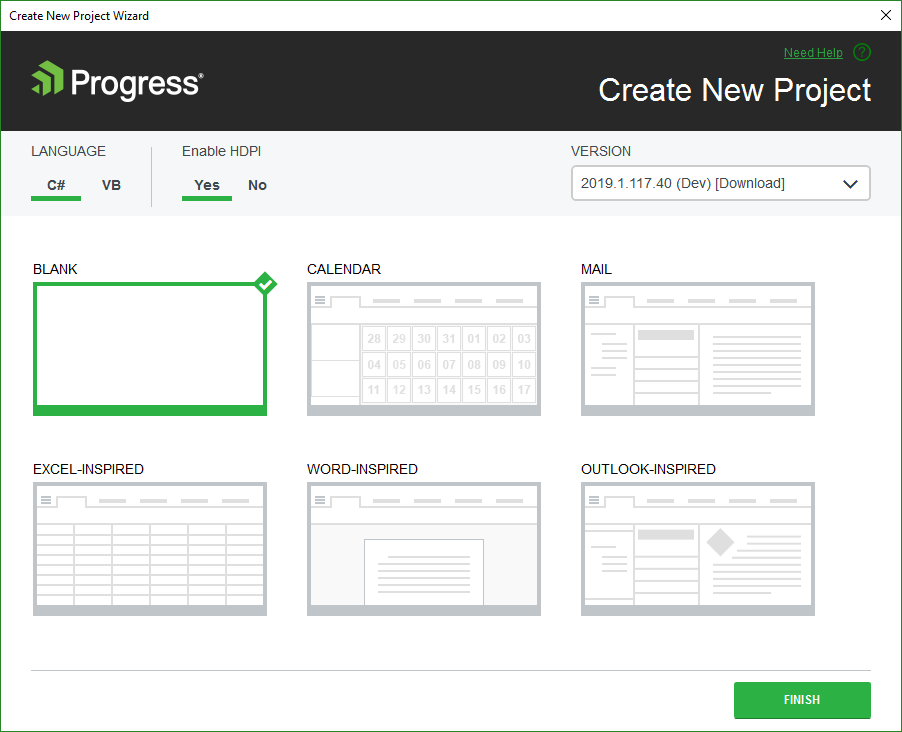
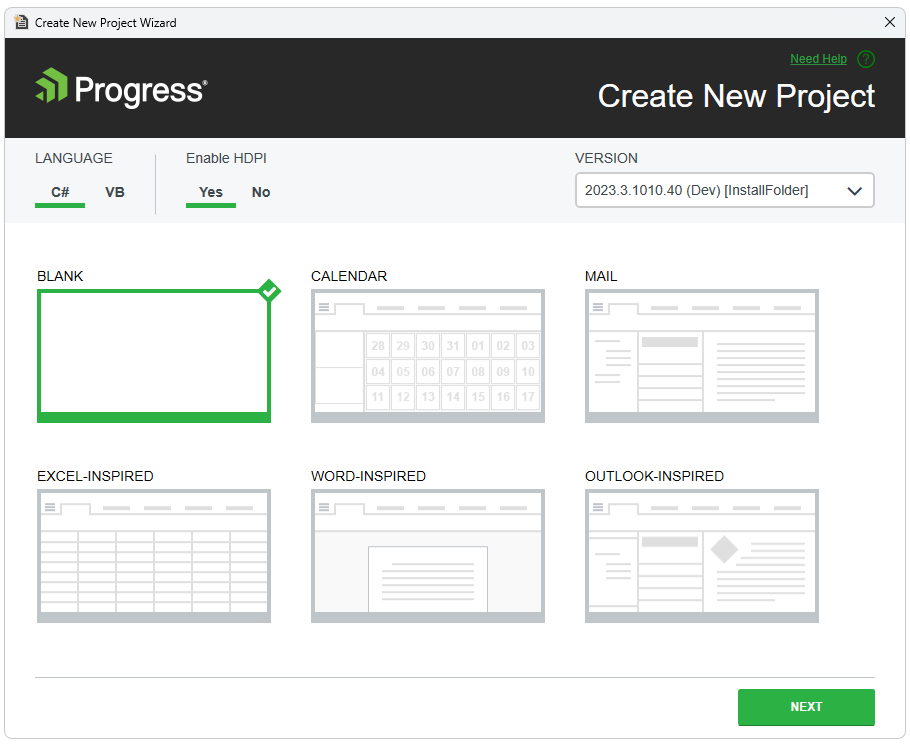
Create new project template - new step added

diff --git a/visual-studio-integration/visual-studio-extensions/create-project.md b/visual-studio-integration/visual-studio-extensions/create-project.md
@@ -45,6 +45,10 @@ When you click the Finish button:
 
 * An app.manifest file is included to the project if you have selected the "Enable HDPI" option.
 
+As of **R3 2023** there is a new step in the wizard, called **Toolbox Configuration**, which allows you to specify what version of UI for WinForms suite to be used for the toolbox:
+
+![installation-deployment-and-distribution-vsx-create-project 003](images/installation-deployment-and-distribution-vsx-create-project003.png)
+
 # See Also
 
  * [Automatic Dependency Resolving]({%slug winforms/installation-deployment-and-distribution/visual-studio-extensions/automatic-dependency-resolving%})
